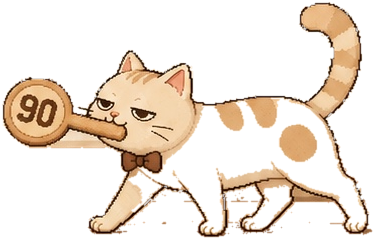
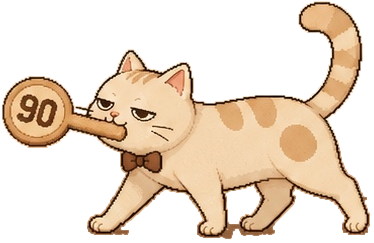
구공이 방향·그리기 순서 수정, 캐릭터·배경 확대, 구공이 알파 복구 (미리보기)

diff --git a/game.js b/game.js
@@ -112,8 +112,9 @@
   })();
 
   /* ─────────────── 이미지 ─────────────── */
-  const SPRITE_H = 46;      // 사람 스프라이트 높이 (논리 픽셀)
-  const CAT_H = 38;
+  const SPRITE_H = 76;      // 사람 스프라이트 높이 (논리 픽셀 · 무대 135의 56%)
+  const CAT_H = 34;         // 구공이(팻말 포함) 높이 — 사람 허리 아래, 고양이 비율
+  const ZOOM = 1.45;        // 배경 확대 배율 (바닥선 고정) — 사람이 커진 만큼 방·골목도 당겨 본다
   const humanH = (scale) => SPRITE_H * (scale || 1);
 
   const IMG = {
@@ -542,19 +543,21 @@
       }
     }
 
+    /* 사람·구공이는 화면 좌표(확대된 배경과 같은 배율로 옮긴 x)로 그린다. */
     function drawPerson(key, x, feetY, facing, t, walking, hScale) {
       const img = IMG.people[key];
       if (!img || !img.complete || !img.naturalWidth) return;
       const h = humanH(hScale);
       const w = h * (img.naturalWidth / img.naturalHeight);
       const bob = walking ? (Math.sin(t * 0.012) > 0 ? 0 : 1) : (Math.sin(t * 0.004) > 0 ? 0 : 1);
-      const sx = Math.round(x);
+      const sx = Math.round(x - w / 2);
       const sy = Math.round(feetY - h + bob);
 
       // 그림자
       ctx.fillStyle = 'rgba(70,45,28,.15)';
       ctx.fillRect(sx + w * 0.15, feetY - 1, Math.max(7, w * 0.62), 2);
 
+      // 원본 일러스트는 오른쪽을 보고 있다 → 왼쪽으로 갈 때 좌우 반전
       ctx.save();
       if (facing < 0) {
         ctx.translate(sx + w, 0);
@@ -573,20 +576,24 @@
       const w = h * (img.naturalWidth / img.naturalHeight);
       const bob = walking ? (Math.sin(t * 0.014) > 0 ? 0 : 1) : (Math.sin(t * 0.003) > 0 ? 0 : 1);
       const tilt = walking ? Math.sin(t * 0.014) * 0.02 : 0;
-      const sx = Math.round(x);
+      const sx = Math.round(x - w / 2);
       const sy = Math.round(feetY - h + bob);
 
       ctx.fillStyle = 'rgba(70,45,28,.15)';
       ctx.fillRect(sx + w * 0.22, feetY - 1, w * 0.6, 2);
 
       ctx.save();
+      ctx.globalAlpha = 1;                 // 구공이는 언제나 100% 불투명
       ctx.translate(sx + w / 2, sy + h);
       ctx.rotate(tilt);
       if (sniffing) ctx.translate(0, 2);
+      /* 원본 assets/gugoong.png 는 왼쪽을 보고 있다.
+         왼쪽으로 갈 때는 그대로, 오른쪽으로 갈 때는 좌우 반전해 진행 방향을 본다. */
+      if (facing > 0) ctx.scale(-1, 1);
       ctx.drawImage(img, -w / 2, -h, w, h);
       ctx.restore();
 
-      // 걷기 먼지
+      // 걷기 먼지 (진행 반대쪽 뒤꿈치)
       if (walking) {
         const ph = (t * 0.02) % 1;
         if (ph > 0.6) {
@@ -601,15 +608,26 @@
       ctx.setTransform(scale, 0, 0, scale, 0, 0);
       ctx.imageSmoothingEnabled = true;
       ctx.clearRect(0, 0, VIEW_W, VIEW_H);
-      if (mode === 'in') drawInterior(cam, t);
-      else drawAlley(cam, t);
 
       const feet = mode === 'in' ? FLOOR_IN : FLOOR_OUT;
-      // 뒤쪽 인물 → 앞쪽 인물 순
-      const list = entities.slice().sort((a, b) => a.x - b.x);
+      const toScreenX = (wx) => (wx - cam) * ZOOM;
+
+      // 배경은 바닥선을 고정한 채 ZOOM 배 확대 (방·골목이 화면을 꽉 채운다)
+      ctx.save();
+      ctx.translate(0, feet * (1 - ZOOM));
+      ctx.scale(ZOOM, ZOOM);
+      if (mode === 'in') drawInterior(cam, t);
+      else drawAlley(cam, t);
+      ctx.restore();
+
+      // 인간들 → 구공이 순. 구공이는 언제나 사람 앞(전경)에서 걷는다.
+      const list = entities.filter(e => e.kind === 'human').sort((a, b) => a.x - b.x);
       for (const e of list) {
-        if (e.kind === 'human') drawPerson(e.sprite, e.x - cam, feet, e.facing, t, e.walking, e.hScale);
-        else drawCat(e.x - cam, feet, e.facing, t, e.walking, e.sniffing);
+        drawPerson(e.sprite, toScreenX(e.x), feet, e.facing, t, e.walking, e.hScale);
+      }
+      for (const e of entities) {
+        if (e.kind !== 'cat') continue;
+        drawCat(toScreenX(e.x), feet, e.facing, t, e.walking, e.sniffing);
       }
     }
 
@@ -621,7 +639,7 @@
 
     function refit() { lastFit = 0; }
 
-    return { draw, setScene, refit, VIEW_W, VIEW_H };
+    return { draw, setScene, refit, VIEW_W, VIEW_H, ZOOM };
   })();
 
   /* ─────────────── 화면 요소 ─────────────── */
@@ -718,10 +736,12 @@
   }
 
   /* ── 월드 좌표 → 무대 위 % ── */
-  function toStage(wx, wy) {
+  /* wx 는 월드(배경) x, sy 는 화면 논리 y. 사람·구공이가 커진 만큼 x 만 ZOOM 배로 옮긴다. */
+  const VIS_W = VIEW_W / ZOOM;
+  function toStage(wx, sy) {
     return {
-      left: ((wx - G.cam) / VIEW_W) * 100,
-      top: (wy / VIEW_H) * 100
+      left: ((((wx - G.cam) * ZOOM) / VIEW_W) * 100),
+      top: (sy / VIEW_H) * 100
     };
   }
 
@@ -1092,7 +1112,7 @@
       // 인간 앞에서는 걸음을 멈추고 마주 본다 (지나치지 않게)
       if (dir !== 0 && G.human && G.human.state === 'idle') {
         const gap = G.human.x - G.cat.x;
-        if (Math.sign(gap) === dir && Math.abs(gap) <= 26) { dir = 0; G.walkTo = null; }
+        if (Math.sign(gap) === dir && Math.abs(gap) <= 30) { dir = 0; G.walkTo = null; }
       }
       G.cat.walking = dir !== 0;
       if (dir !== 0) {
@@ -1132,7 +1152,7 @@
       } else if (h.state === 'leave') {
         h.walking = true;
         h.x += 78 * dt;
-        const offScreen = h.x > G.cam + VIEW_W + 12 || h.x < G.cam - 40;
+        const offScreen = h.x > G.cam + VIS_W + 12 || h.x < G.cam - 40;
         if (G.phase === 'leaving' && offScreen) {
           afterLeave();
         } else if (h.x > worldMax + 60) {
@@ -1149,7 +1169,7 @@
     if (G.trans) updateTransition(dt);
 
     /* 카메라 */
-    const camTarget = clamp(G.cat.x - VIEW_W / 2 + 10, 0, worldMax - VIEW_W);
+    const camTarget = clamp(G.cat.x - VIS_W / 2 + 7, 0, worldMax - VIS_W);
     G.cam += (camTarget - G.cam) * Math.min(1, dt * 6);
 
     /* 무대 위 DOM (점수/말풍선) 위치 갱신 */
@@ -1199,7 +1219,7 @@
   function pointerDir(clientX) {
     const rect = ui.stage.getBoundingClientRect();
     const logical = ((clientX - rect.left) / rect.width) * VIEW_W;
-    const catScreen = G.cat.x - G.cam;
+    const catScreen = (G.cat.x - G.cam) * ZOOM;
     if (Math.abs(logical - catScreen) < 12) return 0;
     return logical > catScreen ? 1 : -1;
   }
@@ -1234,7 +1254,7 @@
     const worldAt = (clientX) => {
       const rect = ui.stage.getBoundingClientRect();
       const logical = ((clientX - rect.left) / rect.width) * VIEW_W;
-      return clamp(G.cam + logical, 8, WORLD[G.scene] - 10);
+      return clamp(G.cam + logical / ZOOM, 8, WORLD[G.scene] - 10);
     };
     const start = (e) => {
       if (G.phase !== 'play') return;
